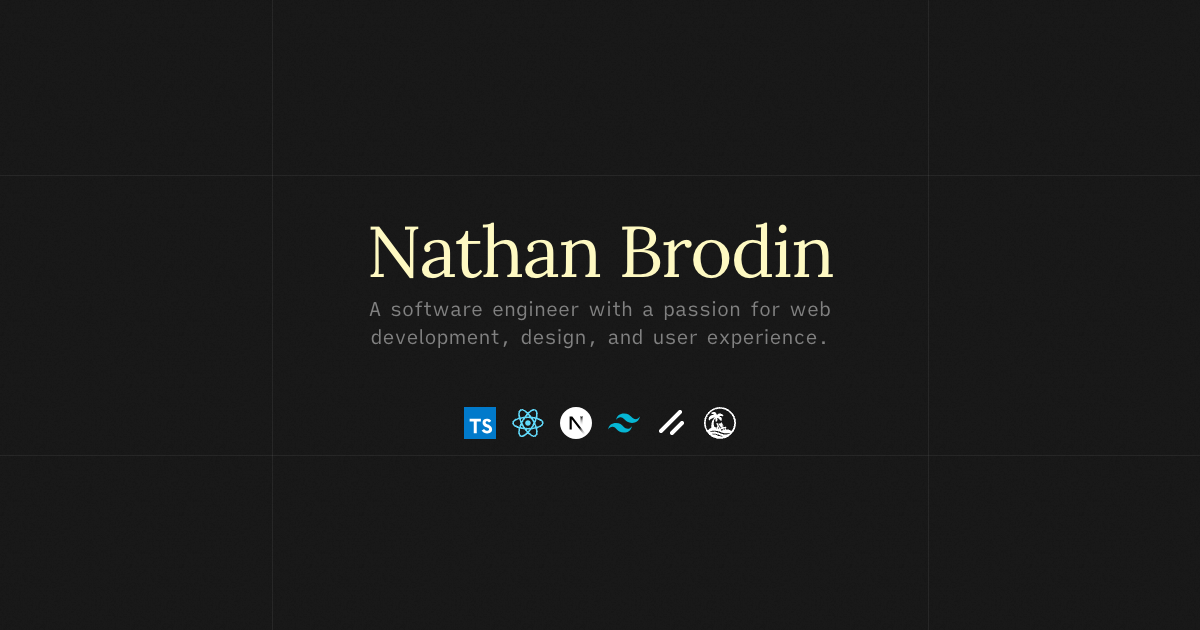
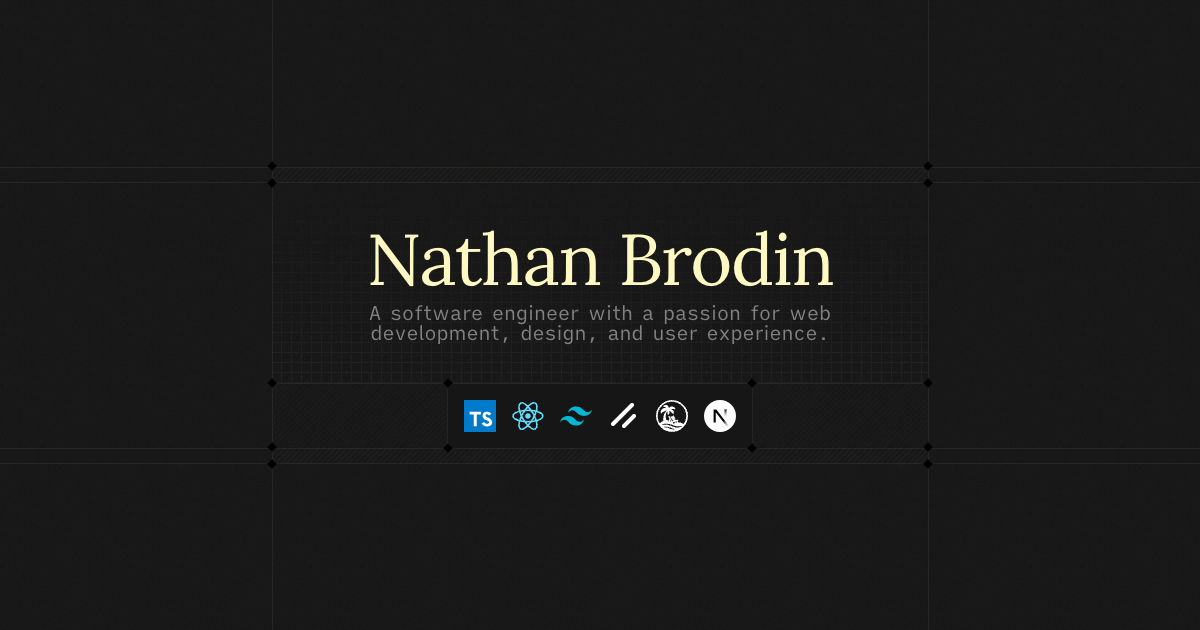
feat: full design of og image

Changed region(s): [[0.3083, 0.3619, 0.7092, 0.4524], [0.3083, 0.4825, 0.7092, 0.5429], [0.37, 0.6333, 0.6167, 0.6937]]

diff --git a/src/routes/og/index.tsx b/src/routes/og/index.tsx
@@ -4,7 +4,6 @@ import { Grid } from '@/components/ui/backgrounds/grid'
 import { Lines } from '@/components/ui/backgrounds/lines'
 import { Noise } from '@/components/ui/backgrounds/noise'
 import { Diamond } from '@/components/ui/diamond'
-import { SectionDivider } from '@/components/ui/section-divider'
 import { TECH_STACK } from '@/config/tech-stack'
 
 export const Route = createFileRoute('/og/')({
@@ -21,9 +20,10 @@ function RouteComponent() {
     'nextjs2',
   ] as const
 
-  const stack = TECH_STACK.filter((tech) =>
-    (keys as readonly string[]).includes(tech.key),
-  )
+  const stack = keys.flatMap((key) => {
+    const tech = TECH_STACK.find((t) => t.key === key)
+    return tech ? [tech] : []
+  })
 
   return (
     <main className="flex h-full w-full flex-1 items-center justify-center">
@@ -33,20 +33,42 @@ function RouteComponent() {
         style={{ width: 1200, height: 630 }}
       >
         <Noise />
-        <div className="before:bg-border after:bg-border relative flex flex-col before:absolute before:top-0 before:-left-[100vw] before:z-10 before:h-[0.5px] before:w-[200vw] after:absolute after:bottom-0 after:-left-[100vw] after:z-10 after:h-[0.5px] after:w-[200vw]">
-          <div className="bg-border pointer-events-none absolute top-1/2 left-0 h-[200vh] w-[0.5px] -translate-y-1/2" />
-          <div className="bg-border pointer-events-none absolute top-1/2 right-0 h-[200vh] w-[0.5px] -translate-y-1/2" />
-          <div className="flex flex-col items-center justify-center px-10 py-10 text-center">
+        <div className="relative flex flex-col">
+          {/* Full-height vertical lines */}
+          <div className="bg-border pointer-events-none absolute top-1/2 left-0 z-10 h-[200vh] w-[0.5px] -translate-y-1/2" />
+          <div className="bg-border pointer-events-none absolute top-1/2 right-0 z-10 h-[200vh] w-[0.5px] -translate-y-1/2" />
+
+          {/* Top divider */}
+          <div className="before:bg-border after:bg-border relative flex h-4 items-center justify-between px-4 py-1 before:absolute before:top-0 before:-left-[100vw] before:z-10 before:h-[0.5px] before:w-[200vw] after:absolute after:bottom-0 after:-left-[100vw] after:z-10 after:h-[0.5px] after:w-[200vw]">
+            <Diamond top left className="left-[-4px] z-50" />
+            <Diamond top right className="right-[-4px] z-50" />
+            <Diamond bottom left className="left-[-4px] z-50" />
+            <Diamond bottom right className="right-[-4px] z-50" />
+            <Lines />
+          </div>
+
+          {/* Content */}
+          <div className="relative flex flex-col items-center justify-center px-10 py-10 text-center">
             <h1 className="font-display text-primary text-7xl font-normal">
               Nathan Brodin
             </h1>
-            <p className="text-muted-foreground mt-2 max-w-xl text-xl">
+            <p className="text-muted-foreground mt-2 max-w-xl text-xl leading-5">
               A software engineer with a passion for web development, design,
               and user experience.
             </p>
+            <Grid />
           </div>
-          <div className="flex items-center justify-center py-4">
-            <ul className="flew-wrap flex gap-4">
+
+          {/* Tech stack */}
+          <div className="border-t-border relative flex items-center justify-center border-t-[0.5px]">
+            <Diamond top left className="left-[-4px] z-50" />
+            <Diamond top right className="right-[-4px] z-50" />
+            <Lines className="opacity-5 select-none dark:opacity-2" />
+            <ul className="flew-wrap bg-background border-x-border relative flex gap-4 border-x-[0.5px] p-4">
+              <Diamond top left className="left-[-4px] z-50" />
+              <Diamond top right className="right-[-4px] z-50" />
+              <Diamond bottom left className="left-[-4px] z-50" />
+              <Diamond bottom right className="right-[-4px] z-50" />
               {stack.map((tech) => {
                 return (
                   <li key={tech.key} className="flex">
@@ -79,6 +101,15 @@ function RouteComponent() {
                 )
               })}
             </ul>
+          </div>
+
+          {/* Bottom divider */}
+          <div className="before:bg-border after:bg-border relative flex h-4 items-center justify-between px-4 py-1 before:absolute before:top-0 before:-left-[100vw] before:z-10 before:h-[0.5px] before:w-[200vw] after:absolute after:bottom-0 after:-left-[100vw] after:z-10 after:h-[0.5px] after:w-[200vw]">
+            <Diamond top left className="left-[-4px] z-50" />
+            <Diamond top right className="right-[-4px] z-50" />
+            <Diamond bottom left className="left-[-4px] z-50" />
+            <Diamond bottom right className="right-[-4px] z-50" />
+            <Lines />
           </div>
         </div>
       </div>
